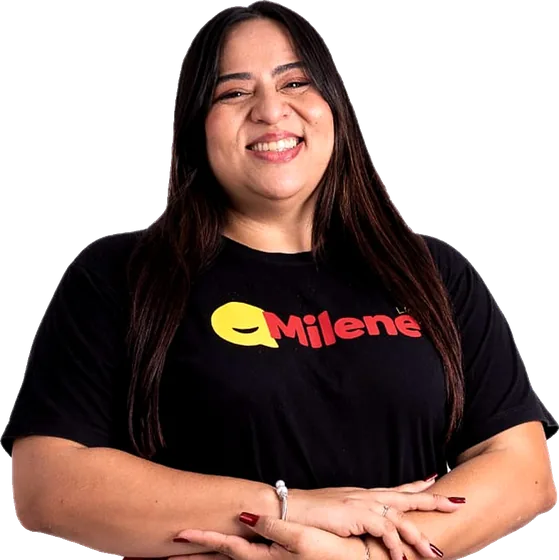
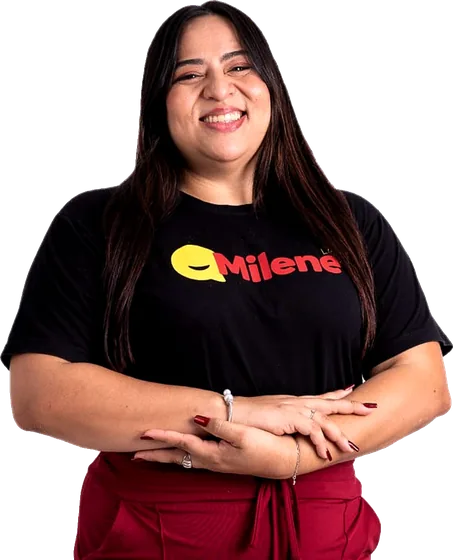
Radix Cursos: fotos de Milene e Sandro até a cintura, na altura das demais

diff --git a/cursos.html b/cursos.html
@@ -446,13 +446,13 @@ const RADIX_CURSOS = {
     { id: 'redacao', classe: 'r', nome: 'Redação', area: 'Redação ENEM', prof: 'Rhayara Lira', foto: 'cursos-rhayara.webp',
       itens: ['As 5 competências da correção', 'Temas e repertório', 'Correção individual de textos'],
       url: null, precos: { presencial: null, online: null } },
-    { id: 'linguagens', classe: 'l', nome: 'Linguagens', area: 'Linguagens', prof: 'Milene Lima', foto: 'cursos-milene.webp',
+    { id: 'linguagens', classe: 'l', nome: 'Linguagens', area: 'Linguagens', prof: 'Milene Lima', foto: 'cursos-milene.webp?v=2',
       itens: ['Interpretação de texto e gramática', 'Literatura e artes', 'Resolução de questões do ENEM'],
       url: null, precos: { presencial: null, online: null } },
     { id: 'quimica', classe: 'q', nome: 'Química', area: 'Ciências da Natureza', prof: 'Thiago Magalhães', foto: 'cursos-thiago.webp',
       itens: ['Geral, físico-química e orgânica', 'Resolução de questões do ENEM', 'Revisão antes da prova'],
       url: null, precos: { presencial: null, online: null } },
-    { id: 'humanas', classe: 'h', nome: 'Humanas', area: 'Ciências Humanas', prof: 'Sandro Cocco', foto: 'cursos-sandro.webp',
+    { id: 'humanas', classe: 'h', nome: 'Humanas', area: 'Ciências Humanas', prof: 'Sandro Cocco', foto: 'cursos-sandro.webp?v=2',
       itens: ['História, geografia, filosofia e sociologia', 'Leitura de mapas, gráficos e textos', 'Resolução de questões do ENEM'],
       url: null, precos: { presencial: null, online: null } }
   ]
